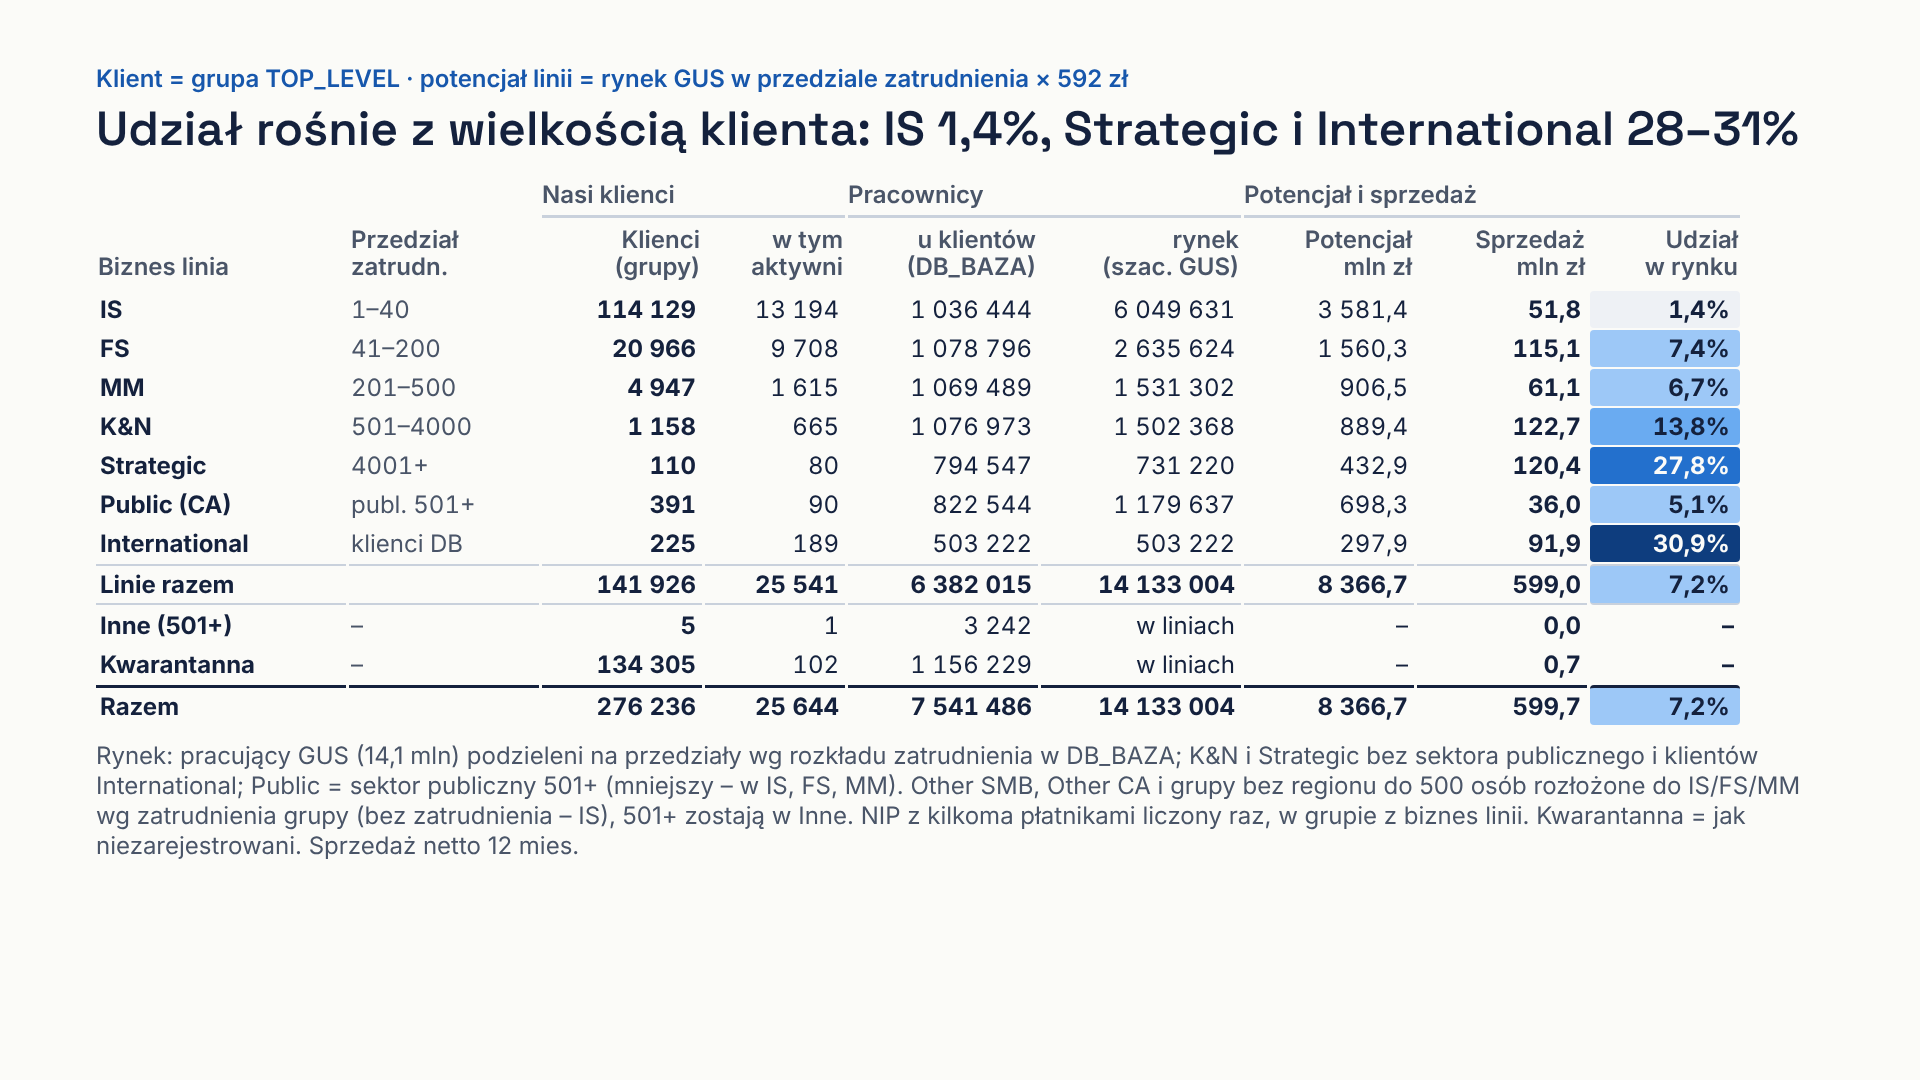
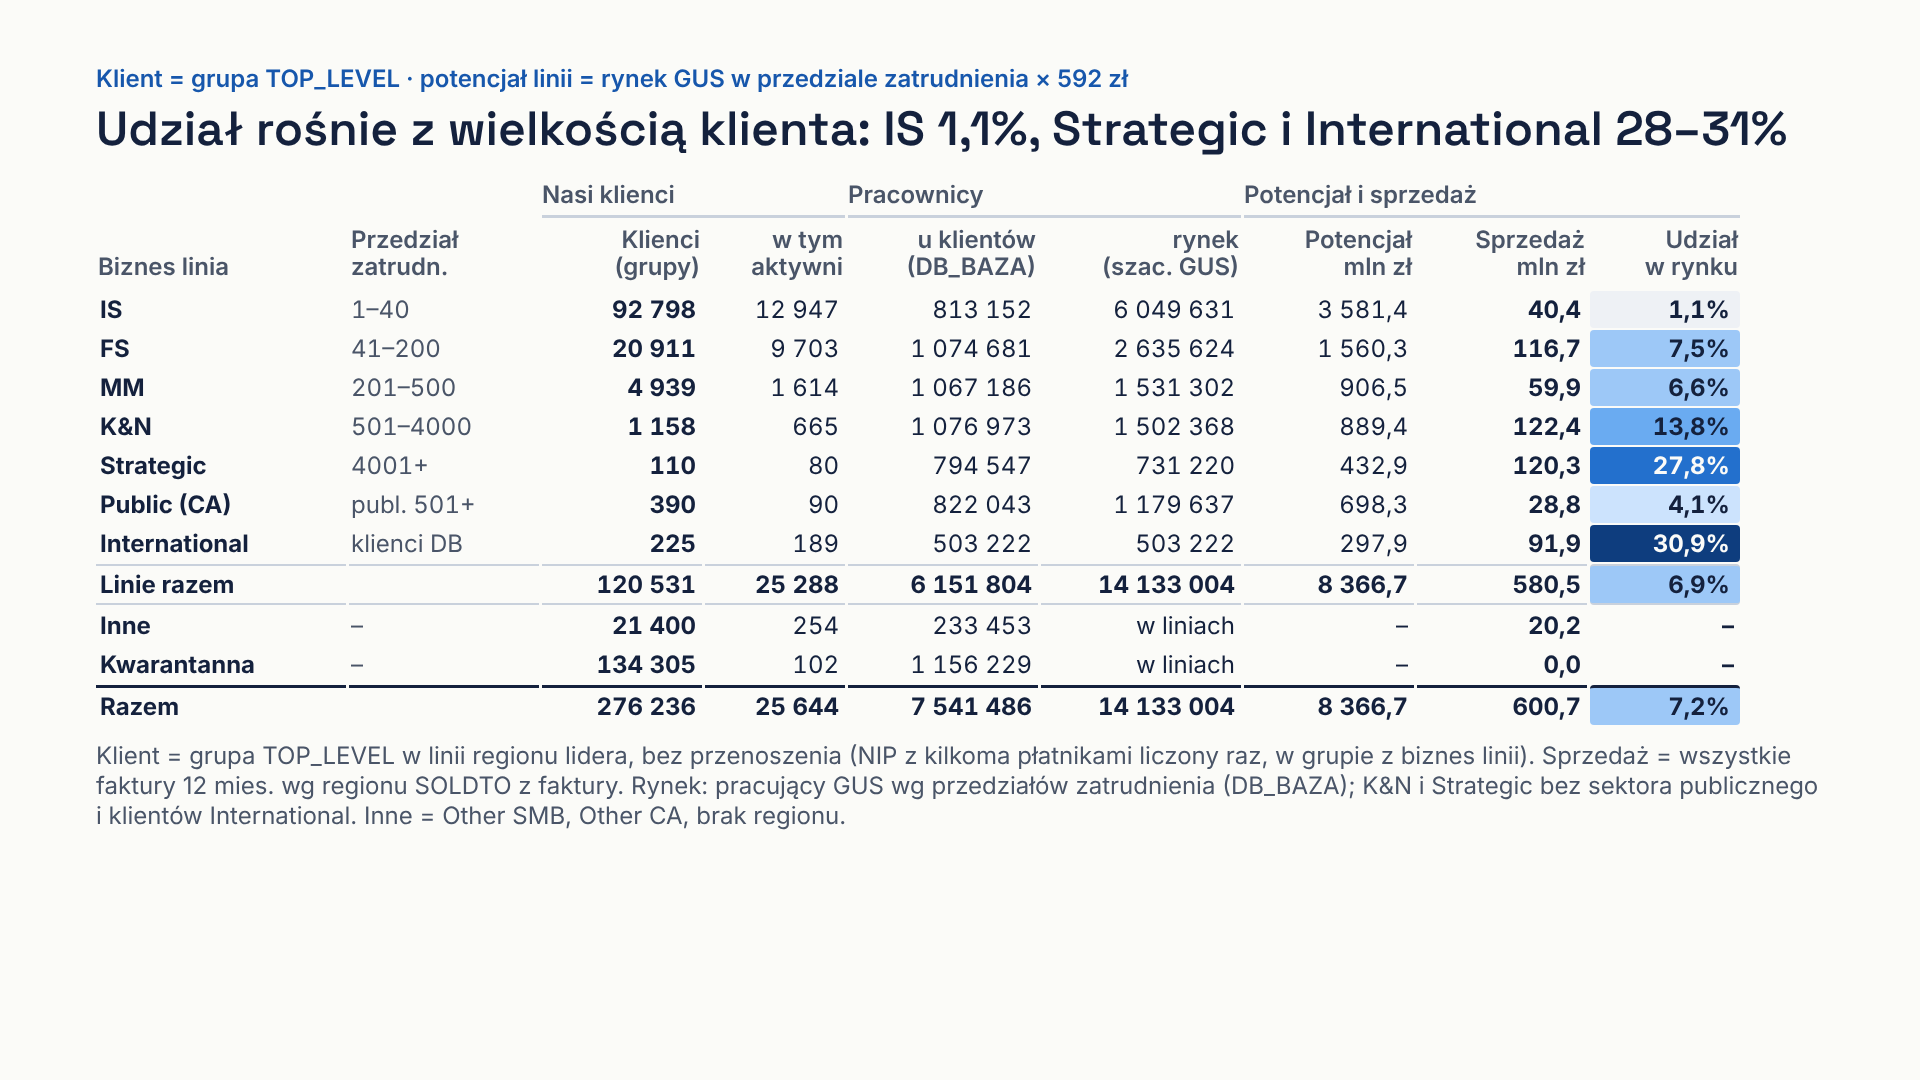
Slajd 3: bez przenoszenia, sprzedaz wg regionu SOLDTO z faktury (D38)
Claude-Session: https://claude.ai/code/session_01XKqyymM4iGumhJbEjTSpGW

diff --git a/piramida_klientow/prezentacja/slajd_gus_x_biznes_linie/slides/biznes_linie.html b/piramida_klientow/prezentacja/slajd_gus_x_biznes_linie/slides/biznes_linie.html
@@ -1,6 +1,6 @@
 <section id="biznes_linie" class="slajd">
 <p class="eyebrow">Klient = grupa TOP_LEVEL · potencjał linii = rynek GUS w przedziale zatrudnienia × 592 zł</p>
-<h2 class="tytul">Udział rośnie z wielkością klienta: IS 1,4%, Strategic i International 28–31%</h2>
+<h2 class="tytul">Udział rośnie z wielkością klienta: IS 1,1%, Strategic i International 28–31%</h2>
 <div class="grupy3">
 <p class="grupa g3-f">Nasi klienci</p>
 <p class="grupa g3-p">Pracownicy</p>
@@ -19,33 +19,33 @@
 
 <p class="wiersz">IS</p>
 <p class="gus pz">1–40</p>
-<p class="suma">114 129</p>
-<p class="gus">13 194</p>
-<p class="gus">1 036 444</p>
+<p class="suma">92 798</p>
+<p class="gus">12 947</p>
+<p class="gus">813 152</p>
 <p class="gus">6 049 631</p>
 <p class="gus">3 581,4</p>
-<p class="suma">51,8</p>
-<p class="c3 h0">1,4%</p>
+<p class="suma">40,4</p>
+<p class="c3 h0">1,1%</p>
 
 <p class="wiersz">FS</p>
 <p class="gus pz">41–200</p>
-<p class="suma">20 966</p>
-<p class="gus">9 708</p>
-<p class="gus">1 078 796</p>
+<p class="suma">20 911</p>
+<p class="gus">9 703</p>
+<p class="gus">1 074 681</p>
 <p class="gus">2 635 624</p>
 <p class="gus">1 560,3</p>
-<p class="suma">115,1</p>
-<p class="c3 h2">7,4%</p>
+<p class="suma">116,7</p>
+<p class="c3 h2">7,5%</p>
 
 <p class="wiersz">MM</p>
 <p class="gus pz">201–500</p>
-<p class="suma">4 947</p>
-<p class="gus">1 615</p>
-<p class="gus">1 069 489</p>
+<p class="suma">4 939</p>
+<p class="gus">1 614</p>
+<p class="gus">1 067 186</p>
 <p class="gus">1 531 302</p>
 <p class="gus">906,5</p>
-<p class="suma">61,1</p>
-<p class="c3 h2">6,7%</p>
+<p class="suma">59,9</p>
+<p class="c3 h2">6,6%</p>
 
 <p class="wiersz">K&amp;N</p>
 <p class="gus pz">501–4000</p>
@@ -54,7 +54,7 @@
 <p class="gus">1 076 973</p>
 <p class="gus">1 502 368</p>
 <p class="gus">889,4</p>
-<p class="suma">122,7</p>
+<p class="suma">122,4</p>
 <p class="c3 h3">13,8%</p>
 
 <p class="wiersz">Strategic</p>
@@ -64,18 +64,18 @@
 <p class="gus">794 547</p>
 <p class="gus">731 220</p>
 <p class="gus">432,9</p>
-<p class="suma">120,4</p>
+<p class="suma">120,3</p>
 <p class="c3 h4">27,8%</p>
 
 <p class="wiersz">Public (CA)</p>
 <p class="gus pz">publ. 501+</p>
-<p class="suma">391</p>
+<p class="suma">390</p>
 <p class="gus">90</p>
-<p class="gus">822 544</p>
+<p class="gus">822 043</p>
 <p class="gus">1 179 637</p>
 <p class="gus">698,3</p>
-<p class="suma">36,0</p>
-<p class="c3 h2">5,1%</p>
+<p class="suma">28,8</p>
+<p class="c3 h1">4,1%</p>
 
 <p class="wiersz">International</p>
 <p class="gus pz">klienci DB</p>
@@ -89,22 +89,22 @@
 
 <p class="wiersz sub">Linie razem</p>
 <p class="gus pz sub"></p>
-<p class="suma sub">141 926</p>
-<p class="gus sub">25 541</p>
-<p class="gus sub">6 382 015</p>
+<p class="suma sub">120 531</p>
+<p class="gus sub">25 288</p>
+<p class="gus sub">6 151 804</p>
 <p class="gus sub">14 133 004</p>
 <p class="gus sub">8 366,7</p>
-<p class="suma sub">599,0</p>
-<p class="c3 h2 sub">7,2%</p>
+<p class="suma sub">580,5</p>
+<p class="c3 h2 sub">6,9%</p>
 
-<p class="wiersz">Inne (501+)</p>
+<p class="wiersz">Inne</p>
 <p class="gus pz">–</p>
-<p class="suma">5</p>
-<p class="gus">1</p>
-<p class="gus">3 242</p>
+<p class="suma">21 400</p>
+<p class="gus">254</p>
+<p class="gus">233 453</p>
 <p class="gus">w liniach</p>
 <p class="gus">–</p>
-<p class="suma">0,0</p>
+<p class="suma">20,2</p>
 <p class="suma">–</p>
 
 <p class="wiersz">Kwarantanna</p>
@@ -114,7 +114,7 @@
 <p class="gus">1 156 229</p>
 <p class="gus">w liniach</p>
 <p class="gus">–</p>
-<p class="suma">0,7</p>
+<p class="suma">0,0</p>
 <p class="suma">–</p>
 
 <p class="wiersz razem">Razem</p>
@@ -124,17 +124,17 @@
 <p class="gus razem">7 541 486</p>
 <p class="gus razem">14 133 004</p>
 <p class="gus razem">8 366,7</p>
-<p class="suma razem">599,7</p>
+<p class="suma razem">600,7</p>
 <p class="c3 h2 razem">7,2%</p>
 </div>
-<p class="przypis p3">Rynek: pracujący GUS (14,1 mln) podzieleni na przedziały wg rozkładu zatrudnienia w DB_BAZA; K&amp;N i Strategic bez sektora publicznego i klientów International; Public = sektor publiczny 501+ (mniejszy – w IS, FS, MM). Other SMB, Other CA i grupy bez regionu do 500 osób rozłożone do IS/FS/MM wg zatrudnienia grupy (bez zatrudnienia – IS), 501+ zostają w Inne. NIP z kilkoma płatnikami liczony raz, w grupie z biznes linii. Kwarantanna = jak niezarejestrowani. Sprzedaż netto 12 mies.</p>
-<aside>Tu klient to grupa TOP_LEVEL (lider i spięte z nim NIP-y), w linii regionu lidera. Grupy z Other SMB, Other CA i bez regionu do 500 osób rozłożyliśmy do IS, FS i MM według łącznego zatrudnienia grupy (bez zatrudnienia – do IS); większe zostają w Inne. NIP z kilkoma płatnikami (np. Nowy Styl) liczymy raz, w grupie z biznes linii. Kwarantannę zostawiamy osobno i traktujemy jak niezarejestrowanych: jej firmy są w rynku linii, ale nie w klientach.
+<p class="przypis p3">Klient = grupa TOP_LEVEL w linii regionu lidera, bez przenoszenia (NIP z kilkoma płatnikami liczony raz, w grupie z biznes linii). Sprzedaż = wszystkie faktury 12 mies. wg regionu SOLDTO z faktury. Rynek: pracujący GUS wg przedziałów zatrudnienia (DB_BAZA); K&amp;N i Strategic bez sektora publicznego i klientów International. Inne = Other SMB, Other CA, brak regionu.</p>
+<aside>Klient to grupa TOP_LEVEL (lider i spięte z nim NIP-y), w linii regionu SOLDTO lidera. Niczego nie przenosimy: Other SMB, Other CA i grupy bez regionu są w Inne, Kwarantanna osobno. Jedyny wyjątek: NIP z kilkoma płatnikami (np. Nowy Styl) liczymy raz, w grupie z biznes linii.
 
-Potencjał linii to cały rynek w jej przedziale zatrudnienia: pracujący GUS podzieleni na przedziały według rozkładu zatrudnienia w DB_BAZA, razy 592 zł. K&N to 501–4000, a Strategic 4001+, w obu bez sektora publicznego i bez klientów International. Public to sektor publiczny 501+; mniejsze instytucje są w rynku IS, FS i MM. International to tylko zatrudnienie jego klientów z DB_BAZA. Razem 14,1 mln pracujących i 8,4 mld zł.
+Sprzedaż liczymy tam, gdzie się odbyła: wszystkie faktury z 12 zamkniętych miesięcy według regionu SOLDTO na fakturze – razem 600,7 mln zł.
 
-Udział rośnie z wielkością klienta: IS 1,4%, MM 6,7%, FS 7,4%, K&N 13,8%, Strategic 27,8%, International 30,9%. Public ma 5,1%.
+Potencjał linii to rynek w jej przedziale zatrudnienia: pracujący GUS podzieleni na przedziały według rozkładu zatrudnienia w DB_BAZA, razy 592 zł. K&N to 501–4000, Strategic 4001+, w obu bez sektora publicznego i bez klientów International; Public to sektor publiczny 501+; International to zatrudnienie jego klientów.
 
-IS to 43% potencjału rynku (3,6 mld zł) przy 50 mln zł sprzedaży – największa luka. Wynika to też z tego, że cały rynek firm 0–9 (3,7 mln pracujących) liczymy do IS.
+Udział rośnie z wielkością klienta: IS 1,1%, MM 6,6%, FS 7,5%, K&N 13,8%, Strategic 27,8%, International 30,9%. Public 4,1%.
 
-Kwarantanna: 134 tys. grup i 1,2 mln pracowników w DB_BAZA, 0,7 mln zł sprzedaży.</aside>
+Inne (Other SMB, Other CA) to 20 mln zł sprzedaży bez osobnego potencjału – ich firmy są w rynku linii. Kwarantanna: 134 tys. grup, sprzedaż znikoma.</aside>
 </section>
